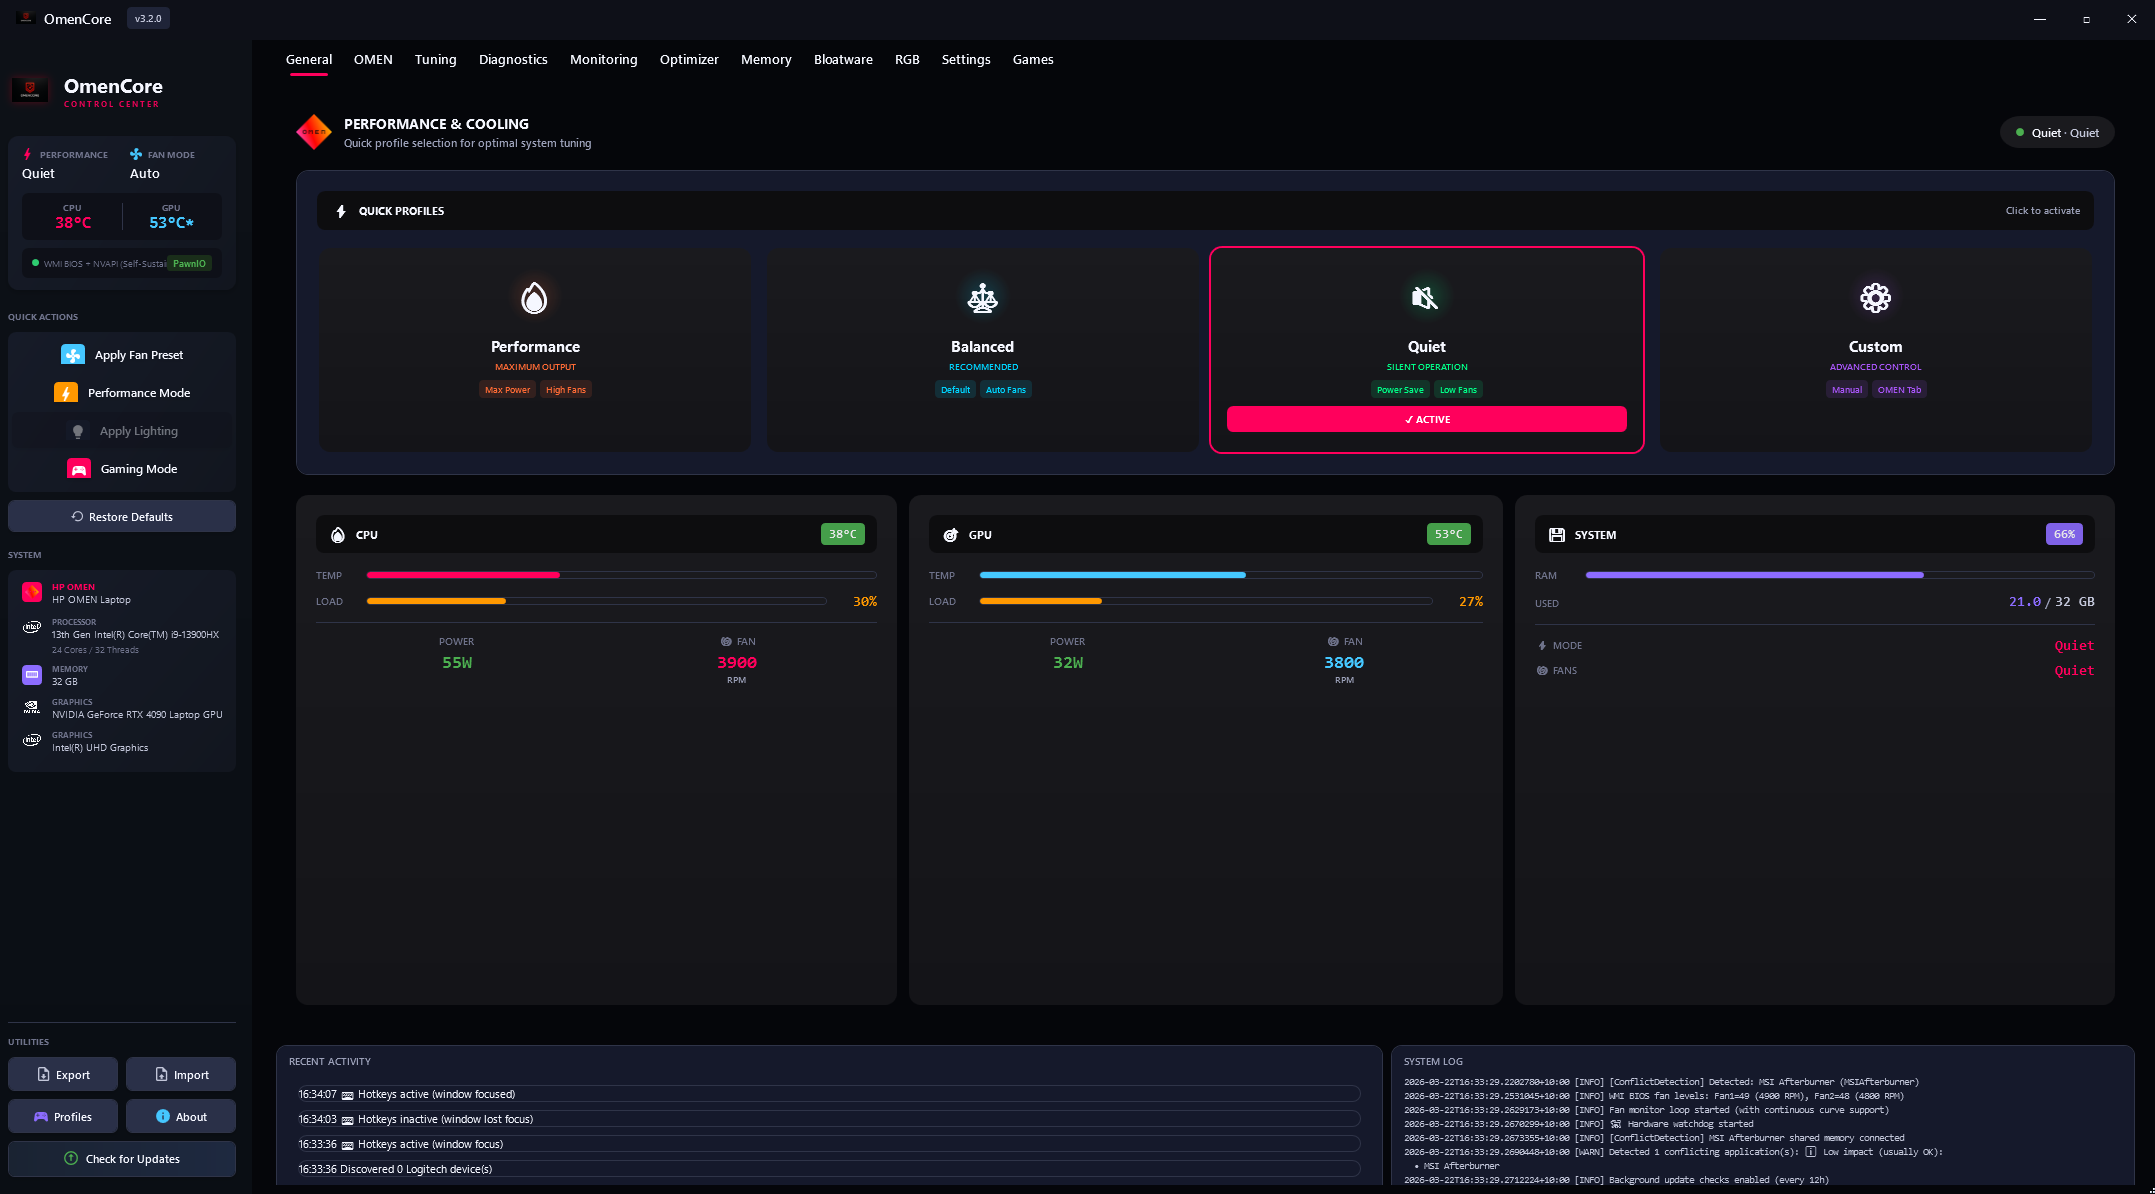
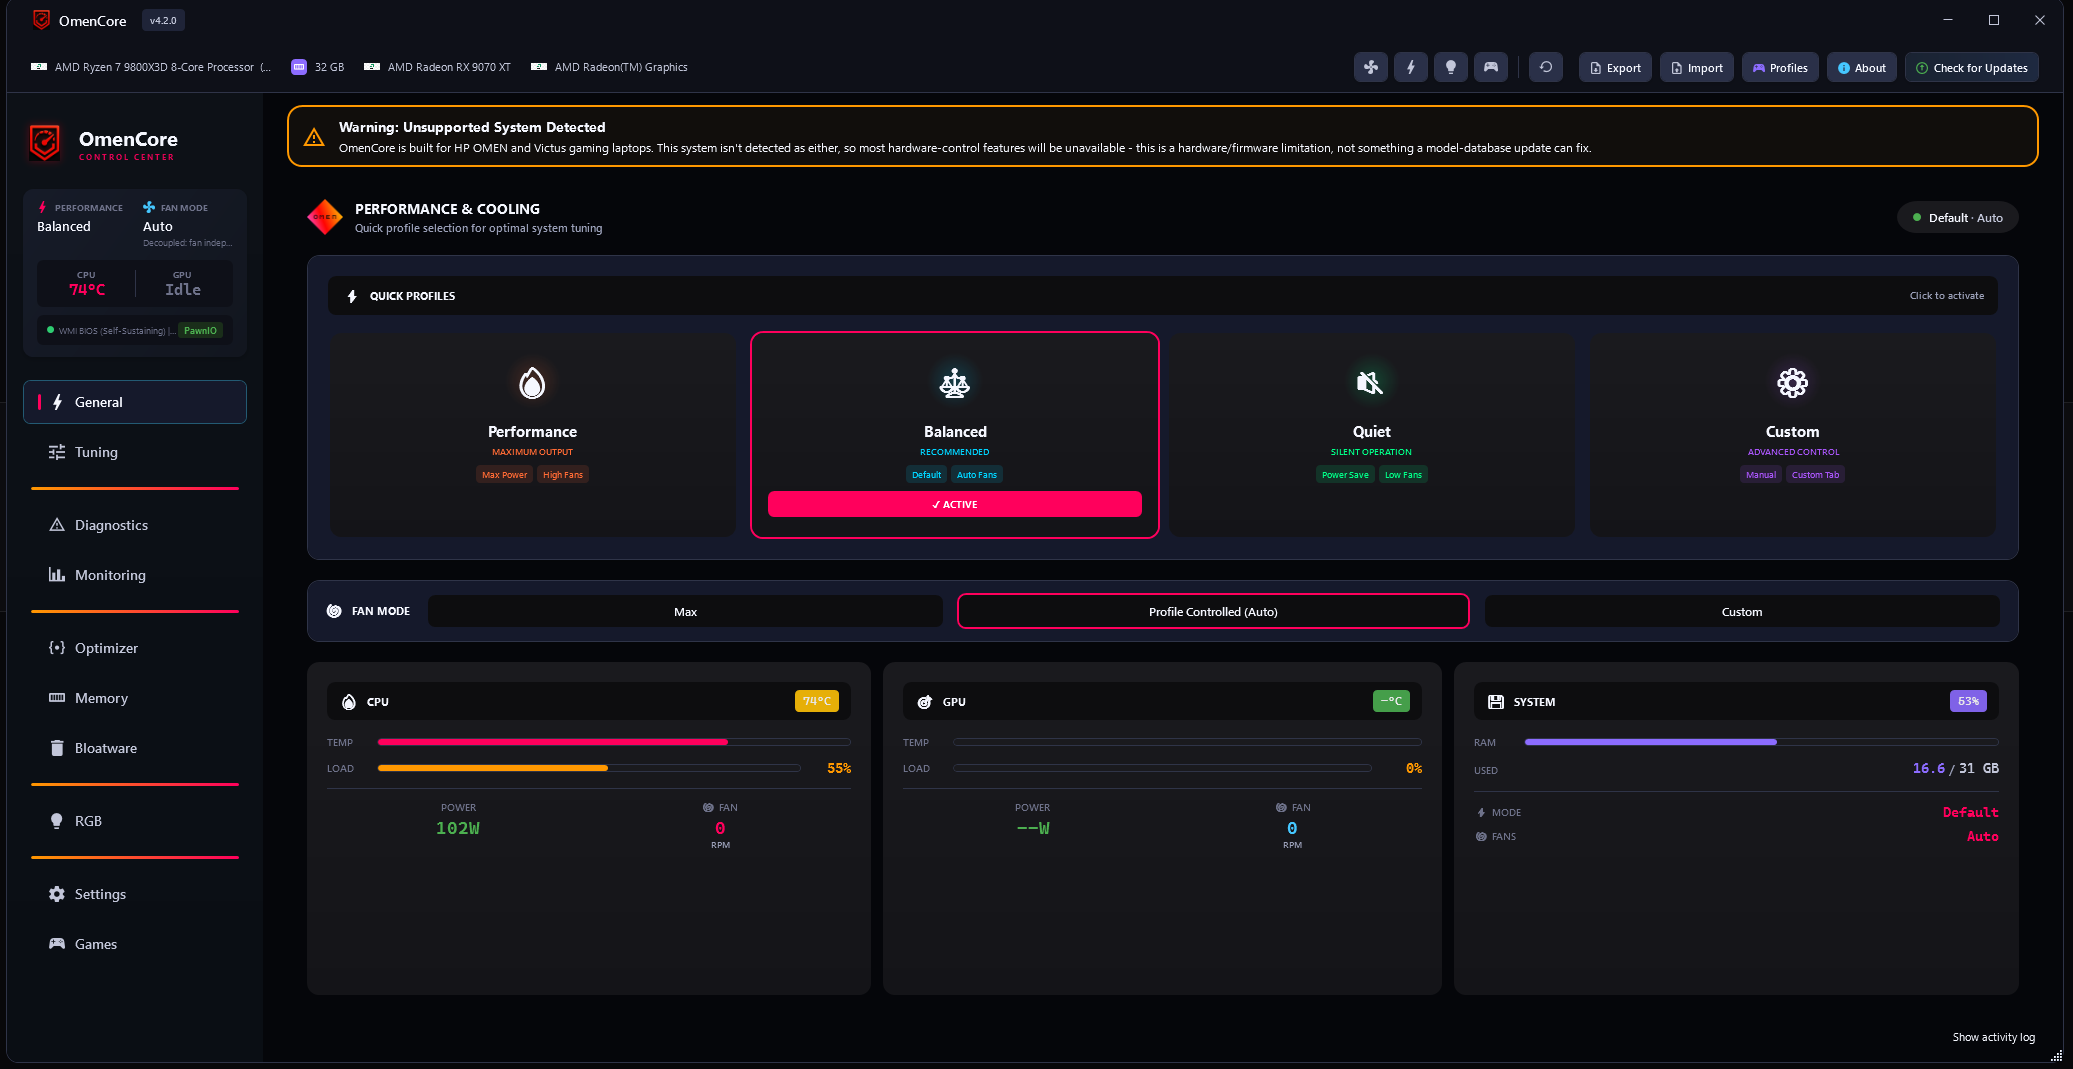
Update screenshots to show the new vertical navigation rail
Replaces the README/website hero screenshot with a current capture of the
nav-rail redesign, adds a CPU/GPU Tuning screenshot to both, and repositions
the website's five hero hotspot callouts to match the new layout (Quick
Actions moved from the old sidebar position to the new top-bar icon row).

diff --git a/website/index.html b/website/index.html
@@ -126,22 +126,22 @@
         <div style="position:relative;">
           <picture>
             <source srcset="assets/main-window.webp" type="image/webp" />
-            <img src="assets/main-window.png" alt="OmenCore desktop application showing the General tab with quick performance profiles, live CPU/GPU stats, and system information" loading="eager" />
+            <img src="assets/main-window.png" alt="OmenCore desktop application showing the General tab with a vertical navigation rail, quick performance profiles, live CPU/GPU stats, and system information" loading="eager" />
           </picture>
 
-          <button class="hotspot" style="left:26.5%; top:31%;" type="button" aria-label="Quick Profiles">1
+          <button class="hotspot" style="left:46%; top:38.5%;" type="button" aria-label="Quick Profiles">1
             <span class="hotspot-tip"><strong>Quick Profiles</strong>One click to switch Performance, Balanced, Quiet, or a fully custom profile — fan curve and power mode together.</span>
           </button>
-          <button class="hotspot" style="left:27.5%; top:52%;" type="button" aria-label="Live Monitoring">2
+          <button class="hotspot" style="left:28.5%; top:76%;" type="button" aria-label="Live Monitoring">2
             <span class="hotspot-tip"><strong>Live Monitoring</strong>Real CPU/GPU temperature, load, power draw, and fan RPM, sampled from WMI BIOS, NVAPI, and EC — refreshed continuously.</span>
           </button>
-          <button class="hotspot" style="left:5.5%; top:32%;" type="button" aria-label="Quick Actions">3
-            <span class="hotspot-tip"><strong>Quick Actions</strong>Apply fan presets, lighting, and Gaming Mode from a persistent sidebar without hunting through tabs.</span>
+          <button class="hotspot" style="left:68%; top:6%;" type="button" aria-label="Quick Actions">3
+            <span class="hotspot-tip"><strong>Quick Actions</strong>Apply fan presets, lighting, and Gaming Mode from the top bar without hunting through tabs.</span>
           </button>
-          <button class="hotspot" style="left:85%; top:52%;" type="button" aria-label="System Panel">4
+          <button class="hotspot" style="left:82%; top:76%;" type="button" aria-label="System Panel">4
             <span class="hotspot-tip"><strong>System Panel</strong>RAM usage, active mode, and fan state at a glance — everything OMEN Gaming Hub buries, in one card.</span>
           </button>
-          <button class="hotspot" style="left:65%; top:88%;" type="button" aria-label="Activity Log">5
+          <button class="hotspot" style="left:93%; top:94%;" type="button" aria-label="Activity Log">5
             <span class="hotspot-tip"><strong>Transparent Logging</strong>Every hardware write and mode change is logged in the open — no hidden background behavior.</span>
           </button>
         </div>

diff --git a/README.md b/README.md
@@ -20,7 +20,14 @@ OmenCore is an independent control center for HP OMEN and Victus systems. It foc
 
 It runs without ads, account prompts, cloud telemetry, or OMEN Gaming Hub. Hardware access is handled through local WMI BIOS, EC, PawnIO, Linux sysfs, and platform backends when the device exposes them.
 
-![OmenCore main window](docs/screenshots/main-window.png)
+![OmenCore main window, showing the vertical navigation rail, quick performance profiles, and live CPU/GPU/system stats](docs/screenshots/main-window.png)
+
+<details>
+<summary>More screenshots (CPU/GPU Tuning)</summary>
+
+![OmenCore CPU/GPU Tuning tab, showing AMD power-limit sliders and undervolt/overclock controls behind the same vertical rail](docs/screenshots/tuning-window.png)
+
+</details>
 
 ## At A Glance
 
